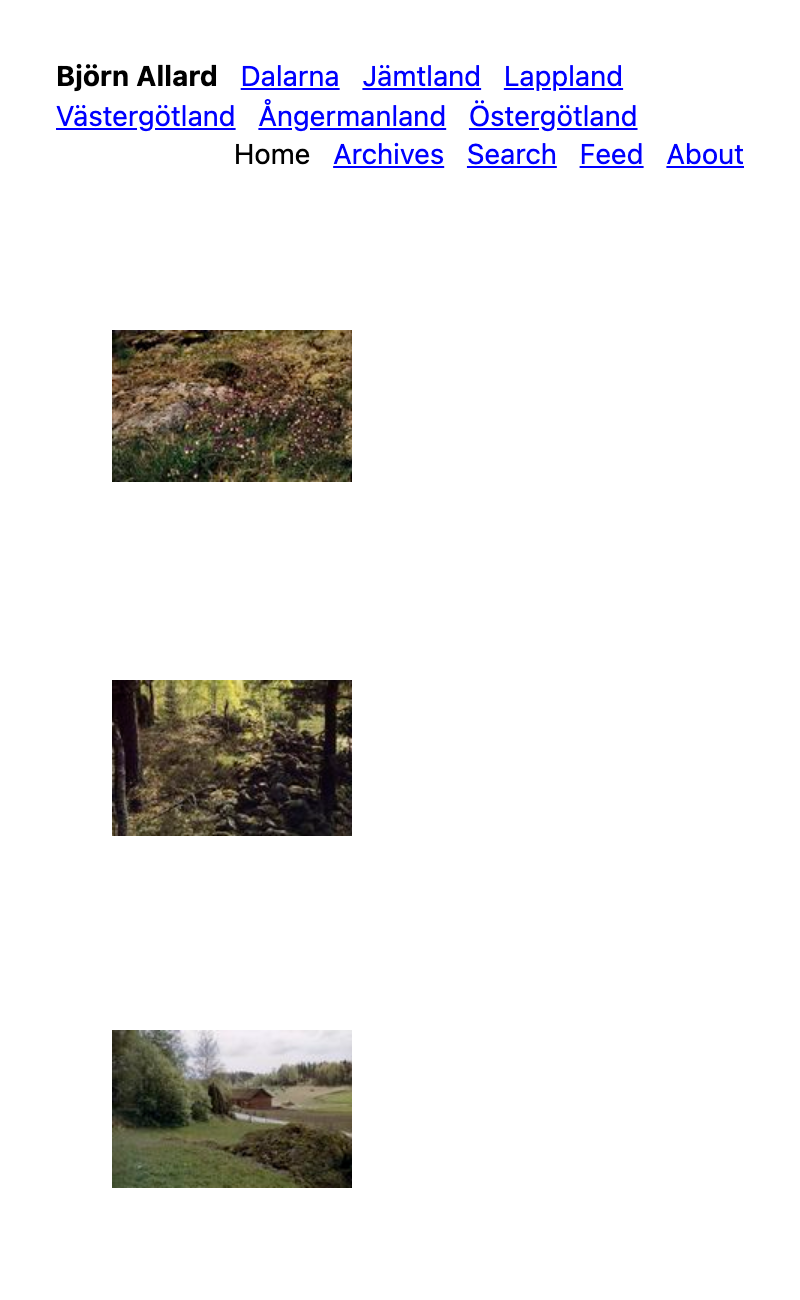
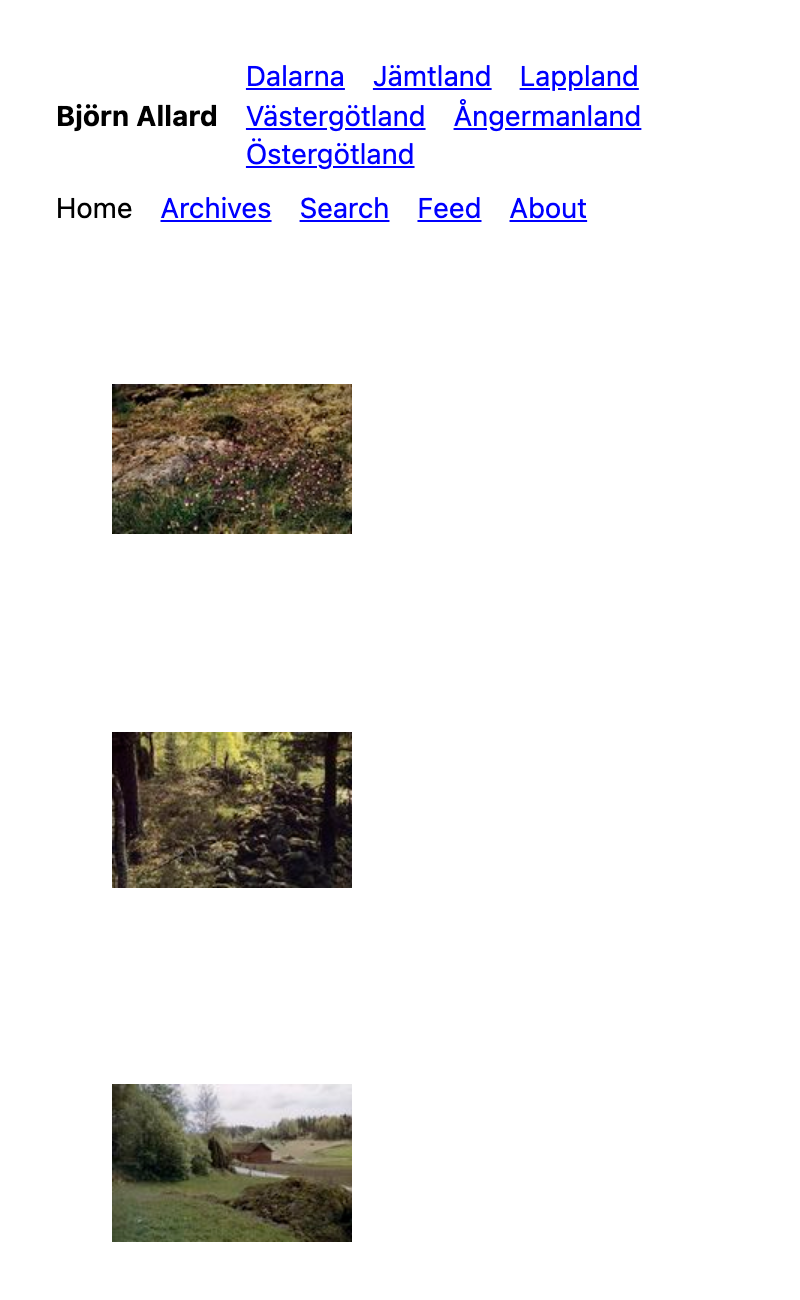
Expose Gallery template settings as dashboard controls (#1669)
* Expose Gallery template settings as dashboard controls

Wire thumbnail size, spacing, heading font, logo/favicon uploads,
and sticky/aligned navigation to package.json locals so the template
editor can theme the grid without editing CSS. Keep existing date
and page-size controls and give page_size a range that includes 96.

* Wire remaining Gallery dashboard controls into the template

Add syntax highlighter locals and heading font size so those pickers
actually change the rendered gallery. Honor hide_dates on archives and
search, drop the flex-breaking header clear, and drive search spacing
from the spacing local.

* Updates screenshots of templates

* Fix Gallery template dashboard controls

---------

diff --git a/app/templates/source/gallery/style.css b/app/templates/source/gallery/style.css
@@ -1,8 +1,11 @@
 {{{app_css}}}
 {{{body_font.styles}}}
+{{{heading_font.styles}}}
+{{{syntax_highlighter_font.styles}}}
+{{{syntax_highlighter.styles}}}
 
 body {
-  margin: 2em;
+  margin: {{spacing}}em;
   text-rendering: optimizelegibility;
   background: {{background_color}};
   color: {{text_color}};
@@ -27,9 +30,85 @@ figcaption {
   widows: 2;
 }
 
-header {margin: 2em 0}
+{{#heading_font}}
+h1, h2, h3, .site-title {
+  font-family: {{{stack}}};
+  {{#weight}}
+  font-weight: {{{.}}};
+  {{/weight}}
+  {{#style}}
+  font-style: {{{.}}};
+  {{/style}}
+}
 
-.pagination {text-align: center;margin: 2em 0}
+h1, h2, h3 {
+  line-height: {{{line_height}}};
+}
+
+h1 { font-size: {{{font_size}}}px; }
+h2 { font-size: calc({{{font_size}}}px * 0.83); }
+h3 { font-size: calc({{{font_size}}}px * 0.67); }
+{{/heading_font}}
+
+header {
+  margin: {{spacing}}em 0;
+  display: flex;
+  flex-wrap: wrap;
+  align-items: center;
+  gap: 0.5em 1em;
+  {{#is.navigation_alignment.justified}}
+  justify-content: space-between;
+  {{/is.navigation_alignment.justified}}
+  {{#is.navigation_alignment.left}}
+  justify-content: flex-start;
+  {{/is.navigation_alignment.left}}
+  {{#is.navigation_alignment.right}}
+  justify-content: flex-end;
+  {{/is.navigation_alignment.right}}
+  {{#is.navigation_alignment.center}}
+  justify-content: center;
+  {{/is.navigation_alignment.center}}
+}
+
+{{#sticky_navigation}}
+header {
+  position: sticky;
+  top: 0;
+  z-index: 2;
+  background: {{background_color}};
+  margin: calc(-1 * {{spacing}}em) calc(-1 * {{spacing}}em) {{spacing}}em;
+  padding: {{spacing}}em;
+}
+{{/sticky_navigation}}
+
+.site-title {
+  display: flex;
+  align-items: center;
+  gap: 0.4em;
+  color: inherit;
+  text-decoration: none;
+}
+
+.site-logo {
+  height: 1.4em;
+  width: auto;
+  display: block;
+}
+
+header nav {
+  display: flex;
+  flex-wrap: wrap;
+  align-items: center;
+  gap: 0 1em;
+}
+
+{{#is.navigation_alignment.justified}}
+header .tags {
+  flex: 1;
+}
+{{/is.navigation_alignment.justified}}
+
+.pagination {text-align: center;margin: {{spacing}}em 0}
 .pagination a {margin: 0 1em;display: inline-block;}
 
 a {color: {{accent_color}};}
@@ -38,16 +117,38 @@ a.active {color: inherit;text-decoration: none;}
 
 img {max-width: 100%;height: auto;vertical-align: middle;}
 
+pre {
+  overflow-x: auto;
+  padding: 0.7em 1em;
+}
+
+pre, code {
+  {{#syntax_highlighter_font}}
+  font-family: {{{stack}}};
+  font-size: {{{font_size}}}px;
+  {{/syntax_highlighter_font}}
+}
+
 .clear {width: 100%;clear: both;display: block;}
 
+.search-form {
+  text-align: center;
+  margin: {{spacing}}em 0;
+}
+
+.search-results {
+  max-width: 600px;
+  text-align: center;
+  margin: 0 auto;
+}
+
 .entry {
-  margin: 1em auto;
-  width: 120px;
-  height: 120px;
+  width: {{thumbnail_size}}px;
+  height: {{thumbnail_size}}px;
   display: block;
   float: left;
   overflow: hidden;
-  margin: 2em;
+  margin: {{spacing}}em;
   position: relative;
 }
 
@@ -72,7 +173,8 @@ img {max-width: 100%;height: auto;vertical-align: middle;}
 
 .entry .teaser {
   padding: 0.33em;
-  max-width:120px;max-height:160px;
+  max-width: {{thumbnail_size}}px;
+  max-height: calc({{thumbnail_size}}px * 4 / 3);
   overflow: hidden;
   border: 1px solid {{text_color}};
   border-radius: 4px;

diff --git a/app/templates/source/gallery/search.html b/app/templates/source/gallery/search.html
@@ -4,13 +4,11 @@
   <body>
     <div class="container">
       {{> header}}
-      <br><br>
-        <form action='/search' style="text-align:center">
+        <form class="search-form" action='/search'>
           <input placeholder="Type your search..." value="{{#query}}{{query}}{{/query}}" name="q" id="search" type="text" />
           <input type="submit" value="Search"/>
         </form>
-        <br><br><br>
-        <div class="results" style="max-width:600px;text-align:center;margin:0 auto">
+        <div class="search-results">
           {{#query}}
             {{^entries}}
             <p>Sorry, nothing found for “{{query}}”</p>
@@ -19,10 +17,11 @@
 
           {{#entries}}
             <a href="{{{url}}}">{{title}}</a>
-            <span class="small">{{date}}</span>
+            {{#date}}<span class="small">{{date}}</span>{{/date}}
             <br>
           {{/entries}}
         </div>
+    {{> footer}}
     </div>
   </body>
 </html>

diff --git a/app/templates/source/gallery/_header.html b/app/templates/source/gallery/_header.html
@@ -1,16 +1,19 @@
 <header>
 
-<a href="/" title="Home" class="{{#is_active}}/{{/is_active}}"><strong>{{title}}</strong></a>
+<a href="/" title="Home" class="site-title {{#is_active}}/{{/is_active}}">{{#logo_url}}<img src="{{{logo_url}}}" alt="" class="site-logo">{{/logo_url}}<strong>{{title}}</strong></a>
 
+{{#show_tags_in_navigation}}
+<nav class="tags">
 {{#all_tags}}
-&nbsp; <a href="/tagged/{{slug}}" title="{{name}}" class="{{active}}">{{name}}</a>
+<a href="/tagged/{{slug}}" title="{{name}}" class="{{active}}">{{name}}</a>
 {{/all_tags}}
+</nav>
+{{/show_tags_in_navigation}}
 
-<span style="float:right">
+<nav class="menu">
 {{#menu}}
-&nbsp; <a href="{{{url}}}" title="{{label}}" class="{{active}}">{{label}}</a>
+<a href="{{{url}}}" title="{{label}}" class="{{active}}">{{label}}</a>
 {{/menu}}
-</span>
+</nav>
 
-<div class="clear"></div>
 </header>

diff --git a/app/templates/source/gallery/_head.html b/app/templates/source/gallery/_head.html
@@ -12,7 +12,8 @@
     {{^entry}}<meta name="description" content="{{> description}}">{{/entry}}
 
     <link rel="alternate" type="application/rss+xml" title="RSS Feed for {{title}}" href="{{{siteURL}}}{{{feedURL}}}">
-    {{#avatar}}<link rel="icon" href="{{{avatar}}}" type="image/x-icon">{{/avatar}}
+    {{#favicon_url}}<link rel="icon" href="{{{favicon_url}}}" type="image/x-icon">{{/favicon_url}}
+    {{^favicon_url}}{{#avatar}}<link rel="icon" href="{{{avatar}}}" type="image/x-icon">{{/avatar}}{{/favicon_url}}
     <link rel="preconnect" href="{{{cdn}}}" />
     <link rel="stylesheet" href="{{#cdn}}/style.css{{/cdn}}">
 

diff --git a/app/templates/source/gallery/archives.html b/app/templates/source/gallery/archives.html
@@ -7,7 +7,7 @@
     <h1>Archives</h1>
 
     {{#all_entries}}
-    {{date}} <a href="{{{url}}}"><strong>{{title}}</strong></a><br>
+    {{#date}}{{date}} {{/date}}<a href="{{{url}}}"><strong>{{title}}</strong></a><br>
     {{/all_entries}}
 
     {{> footer}}
